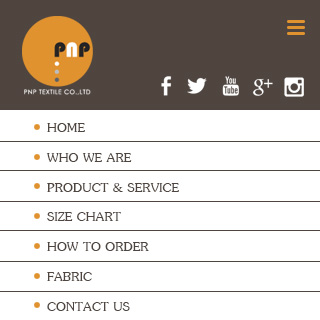
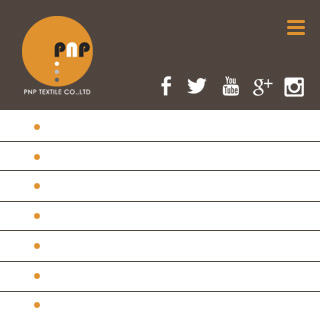
Edit header to text and hover, active is hilight

diff --git a/css/style.css b/css/style.css
@@ -11,6 +11,15 @@ html,body{
     text-shadow: 1px 1px 1px rgba(0,0,0,0.004);
 }
 
+body {
+    -webkit-text-size-adjust:none;
+    -moz-text-size-adjust:none;
+    -ms-text-size-adjust:none;
+    -webkit-text-size-adjust:100%;
+    -moz-text-size-adjust:100%;
+    -ms-text-size-adjust:100%;
+}
+
 /** utoolity **/
 
 .wrapper{
@@ -49,8 +58,8 @@ html,body{
     top: 0;
     width:100%;
     z-index: 1000;
-    box-shadow: 0 1px 1px 1px rgba(0, 0, 0, 0.09);
-    background-color: #4f453f;
+    /*box-shadow: 0 1px 1px 1px rgba(0, 0, 0, 0.09);*/
+    /*background-color: #4f453f;*/
 }
 .fixed-footer {
     width:100%;
@@ -79,40 +88,59 @@ html,body{
 }
 
 #bg_header{
-    background: url(images/01home_03.jpg) no-repeat;
+    background: url(images/header.jpg) no-repeat;
+    box-shadow: 0 2px 1px -1px rgba(0, 0, 0, 0.09);
     height: 196px;
 }
 #navigation a{
     display:block;
     float:left;
     height:40px;
+    text-align: center;
+    line-height: 40px;
+    text-decoration: none;
+    color: #4f453f;
+    text-shadow: 0 0 1px rgba(79, 69, 63, 0.35);
+    font-size: 20px;
+}
+#navigation a.active,
+#navigation a:hover {
+    color: #e0922f;
+    text-shadow: 0 0 1px rgba(224, 146, 47, 0.35);
 }
 #navigation a{
-    width:125px;
+    width:95px;
+    margin-left: 30px;
 }
 #navigation a+a{
     width:130px;
+    margin-left: 0;
 }
 #navigation a+a+a{
     width:175px;
+    margin-left: 0;
 }
 #navigation a+a+a+a{
     width:118px;
+    margin-left: 0;
 }
 #navigation a+a+a+a+a{
     width:152px;
+    margin-left: 0;
 }
 #navigation a+a+a+a+a+a{
     width:89px;
+    margin-left: 0;
 }
 #navigation a+a+a+a+a+a+a{
-    width:171px;
+    width: 117px;
+    margin-left: 0;
 }
 
 /** footer **/
 #bt-nav {
     margin-top: 20px;
-    background: url(images/01home_18.jpg);
+    background: url(images/btnav.jpg);
     height: 49px;
     padding-left: 119px;
 }
@@ -120,7 +148,18 @@ html,body{
 #bt-nav a{
     display:block;
     float:left;
-    height:40px;
+    height:49px;
+    line-height: 55px;
+    text-align: center;
+    text-decoration: none;
+    color: #4f453f;
+    text-shadow: 0 0 1px rgba(79, 69, 63, 0.35);
+    font-size: 22px;
+}
+#bt-nav a.active,
+#bt-nav a:hover {
+    color: #e0922f;
+    text-shadow: 0 0 1px rgba(224, 146, 47, 0.35);
 }
 #bt-nav a{
     width:74px;
@@ -162,8 +201,11 @@ html,body{
 
     .fixed-header {
         position: static;
+        height: auto;
     }
-
+    #bg_header{
+        box-shadow: none;
+    }
 
     #bt-nav a{
         width: auto;
@@ -242,6 +284,12 @@ html,body{
         display: block;
         float: none;
         height: 30px;
+
+        width: 100%;
+        text-align: left;
+        margin-left: 0;
+        text-indent: 55px;
+        line-height: 34px;
     }
     #navigation a{
         width: 100%;
@@ -292,9 +340,11 @@ html,body{
         display: block;
         height: 28px;
 
-        width: 83px;
-        left: 40px;
-        top: 14px;
+        width: 73px;
+        left: 50px;
+        top: 13px;
+
+        line-height: 34px;
     }
     #bt-nav a+a{
         width: 110px;
@@ -307,8 +357,8 @@ html,body{
         top: 40px;
     }
     #bt-nav a+a+a+a{
-        width: 100px;
-        left: 162px;
+        width: 95px;
+        left: 161px;
         top: 40px;
     }
     #bt-nav a+a+a+a+a{
@@ -384,6 +434,12 @@ html,body{
         display: block;
         float: none;
         height: 30px;
+
+        width: 100%;
+        text-align: left;
+        margin-left: 0;
+        text-indent: 55px;
+        line-height: 34px;
     }
     #navigation a{
         width: 100%;
@@ -451,6 +507,6 @@ html,body{
         width: 72px;
     }
     #bt-nav a+a+a+a+a+a+a{
-        width: 130px;
+        width: 102px;
     }
 }

diff --git a/index.php b/index.php
@@ -7,7 +7,7 @@ session_start();
     <meta charset="utf-8">
     <meta name="viewport" content="width=device-width">
     <title>PNP : TEXTILE CO., LTD</title>
-    <link rel="stylesheet" href="css/style.css">
+    <link rel="stylesheet" href="css/style.css?v=2">
     <link rel="stylesheet" href="css/swipebox.min.css">
     <script src="js/jquery-1.11.0.min.js"></script>
     <script src="js/jquery-migrate-1.2.1.min.js"></script>
@@ -27,13 +27,13 @@ session_start();
         <div id="social_top" class="pull-right"><a href="" style="display: block; height: 100%;"></a></div>
         <div class="clearfix"></div>
         <div id="navigation">
-            <a href="index.php?page=home"></a>
-            <a href="index.php?page=who_we_are"></a>
-            <a href="index.php?page=product_service"></a>
-            <a href="index.php?page=size_chart"></a>
-            <a href="index.php?page=how_to_order"></a>
-            <a href="index.php?page=fabric"></a>
-            <a href="index.php?page=contact"></a>
+            <a href="index.php?page=home" class="<?php if(@$_GET['page']=='home') echo 'active';?>">HOME</a>
+            <a href="index.php?page=who_we_are" class="<?php if(@$_GET['page']=='who_we_are') echo 'active';?>">WHO WE ARE</a>
+            <a href="index.php?page=product_service" class="<?php if(@$_GET['page']=='product_service') echo 'active';?>">PRODUCT & SERVICE</a>
+            <a href="index.php?page=size_chart" class="<?php if(@$_GET['page']=='size_chart') echo 'active';?>">SIZE CHART</a>
+            <a href="index.php?page=how_to_order" class="<?php if(@$_GET['page']=='how_to_order') echo 'active';?>">HOW TO ORDER</a>
+            <a href="index.php?page=fabric" class="<?php if(@$_GET['page']=='fabric') echo 'active';?>">FABRIC</a>
+            <a href="index.php?page=contact" class="<?php if(@$_GET['page']=='contact') echo 'active';?>">CONTACT US</a>
         </div>
     </div>
 </div>
@@ -42,13 +42,13 @@ session_start();
 </div>
 <div class="wrapper">
     <div id="bt-nav">
-        <a href="index.php?page=home"></a>
-        <a href="index.php?page=who_we_are"></a>
-        <a href="index.php?page=product_service"></a>
-        <a href="index.php?page=size_chart"></a>
-        <a href="index.php?page=how_to_order"></a>
-        <a href="index.php?page=fabric"></a>
-        <a href="index.php?page=contact"></a>
+        <a href="index.php?page=home" class="<?php if(@$_GET['page']=='home') echo 'active';?>">Home</a>
+        <a href="index.php?page=who_we_are" class="<?php if(@$_GET['page']=='who_we_are') echo 'active';?>">Who We Are</a>
+        <a href="index.php?page=product_service" class="<?php if(@$_GET['page']=='product_service') echo 'active';?>">Product & Service</a>
+        <a href="index.php?page=size_chart" class="<?php if(@$_GET['page']=='size_chart') echo 'active';?>">Size Chart</a>
+        <a href="index.php?page=how_to_order" class="<?php if(@$_GET['page']=='how_to_order') echo 'active';?>">How To Order</a>
+        <a href="index.php?page=fabric" class="<?php if(@$_GET['page']=='fabric') echo 'active';?>">Fabric</a>
+        <a href="index.php?page=contact" class="<?php if(@$_GET['page']=='contact') echo 'active';?>">Contact Us</a>
     </div>
 </div>
 <div class="fixed-footer">

diff --git a/old_index.php b/old_index.php
@@ -1,0 +1,66 @@
+<?php
+session_start();
+?>
+<!DOCTYPE>
+<html>
+<head>
+    <meta charset="utf-8">
+    <meta name="viewport" content="width=device-width">
+    <title>PNP : TEXTILE CO., LTD</title>
+    <link rel="stylesheet" href="css/style.css?v=1">
+    <link rel="stylesheet" href="css/swipebox.min.css">
+    <script src="js/jquery-1.11.0.min.js"></script>
+    <script src="js/jquery-migrate-1.2.1.min.js"></script>
+    <script src="js/jquery.swipebox.min.js"></script>
+    <script src="js/jquery.resizecrop-1.0.3.min.js"></script>
+    <meta http-equiv="X-UA-Compatible" content="IE=edge,chrome=1"/>
+    <!--[if lt IE 9]>
+    <script src="http://html5shim.googlecode.com/svn/trunk/html5.js"></script>
+    <![endif]-->
+</head>
+<body>
+<div class="pnp-gray-bg web-top-section"></div>
+<div class="fixed-header">
+    <div id="bg_header" class="wrapper">
+        <a href="" class="toggle-header"></a>
+        <a href=""><div id="logo" class="pull-left"></div></a>
+        <div id="social_top" class="pull-right"><a href="" style="display: block; height: 100%;"></a></div>
+        <div class="clearfix"></div>
+        <div id="navigation">
+            <a href="index.php?page=home"></a>
+            <a href="index.php?page=who_we_are"></a>
+            <a href="index.php?page=product_service"></a>
+            <a href="index.php?page=size_chart"></a>
+            <a href="index.php?page=how_to_order"></a>
+            <a href="index.php?page=fabric"></a>
+            <a href="index.php?page=contact"></a>
+        </div>
+    </div>
+</div>
+<div class="wrapper container">
+    <?php $page = isset($_GET['page'])? $_GET['page']: 'home'; include("page/".$page.'.php'); ?>
+</div>
+<div class="wrapper">
+    <div id="bt-nav">
+        <a href="index.php?page=home"></a>
+        <a href="index.php?page=who_we_are"></a>
+        <a href="index.php?page=product_service"></a>
+        <a href="index.php?page=size_chart"></a>
+        <a href="index.php?page=how_to_order"></a>
+        <a href="index.php?page=fabric"></a>
+        <a href="index.php?page=contact"></a>
+    </div>
+</div>
+<div class="fixed-footer">
+    Copyright © 2014 by www.polocolour.com  All Rights Reserved.
+</div>
+</body>
+<script type="text/javascript">
+    $(function(){
+        $('.toggle-header').click(function(e){
+            e.preventDefault();
+            $('#bg_header').toggleClass('open');
+        });
+    });
+</script>
+</html>

diff --git a/page/home.php b/page/home.php
@@ -15,18 +15,21 @@ require_once 'Manager.php';
     <div>
         <style type="text/css">
             #slider1_container, div[u="slides"], #slider1_container div div {
-                width: 320px;
+                /*width: 320px;*/
+                width: 100%;
                 height: 133px;
             }
             @media all and (min-width: 768px) {
                 #slider1_container, div[u="slides"], #slider1_container div div {
-                    width: 768px;
+                    /*width: 768px;*/
+                    width: 100%;
                     height: 320px;
                 }
             }
             @media all and (min-width: 960px) {
                 #slider1_container, div[u="slides"], #slider1_container div div {
-                    width: 960px;
+                    /*width: 960px;*/
+                    width: 100%;
                     height: 400px;
                 }
             }
@@ -89,6 +92,7 @@ HTML;
 </div>
 <script>
     jQuery(document).ready(function ($) {
+        $();
         var options = {
             $BulletNavigatorOptions: {
                 $Class: $JssorBulletNavigator$,
